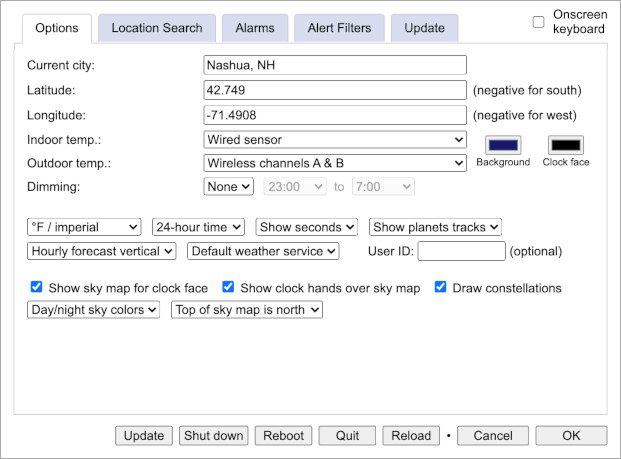
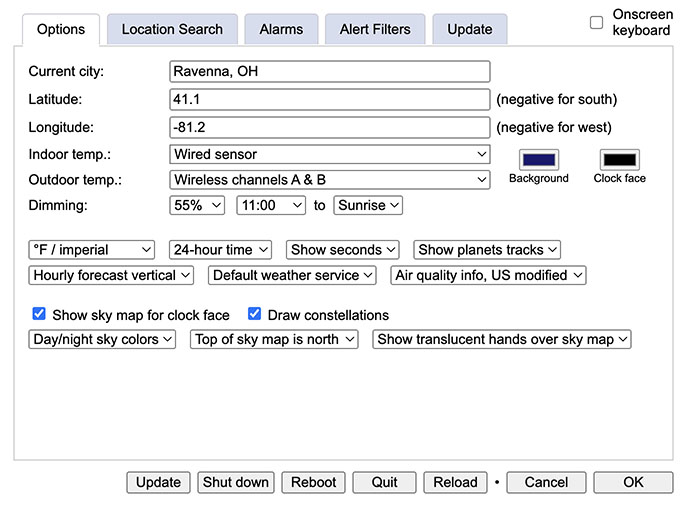
Documentation and image updates.

diff --git a/README.md b/README.md
@@ -1,12 +1,12 @@
 ## Astronomy/Weather Clock
 
-![raspberry pi logo](https://shetline.com/readme/aw-clock/3.3.0/rpi_logo.svg)
+![raspberry pi logo](https://shetline.com/readme/aw-clock/3.8.0/rpi_logo.svg)
 
 This project is designed to create a desktop clock that provides weather and astronomical information while additionally functioning as an alarm clock.
 
 Although primarily designed to run on a Raspberry Pi, the project generates a Node.js server and a client web app which can be run on other computers and operating systems, albeit without the Raspberry Pi’s hardware-level support for wired and wireless temperature/humidity sensors. GPS support is also primarily aimed at the Raspberry Pi, but might work with other Linux variants if similarly configured.
 
-The clock displays the time and date in both analog and digital form, in 12- or 24-hour format, and has a special display mode for the occasional leap second. The clock also displays current weather conditions, hourly conditions for 24 hours, a seven*-day forecast, filterable weather alerts, sunrise and sunset times, moonrise and moonset times*, moon phases, equinoxes, solstices, and the positions of the Sun, Moon, and major planets along the ecliptic.
+The clock displays the time and date in both analog and digital form, in 12- or 24-hour format, and has a special display mode for the occasional leap second. The clock also displays current weather conditions, hourly conditions for 24 hours, a seven*-day forecast, air quality information, filterable weather alerts, sunrise and sunset times, moonrise and moonset times*, moon phases, equinoxes, solstices, and the positions of the Sun, Moon, and major planets along the ecliptic.
 
 When displaying 24-hour time, that time can either be local time or UTC.
 
@@ -18,15 +18,15 @@ When viewing the sky map feature you can choose to see a multicolor sky, shaded 
 
 *&#42;A touchscreen or mouse is required to display the last two or three days of the seven-day forecast, to switch the display from sunrise/sunset to moonrise/moonset, from clock face to sky map, or to switch from hourly temperatures to hourly probability-of-precipitation.*
 
-![finished project](https://shetline.com/readme/aw-clock/3.3.0/aw-clock-w-stand-12.jpg)
+![finished project](https://shetline.com/readme/aw-clock/3.8.0/aw-clock-w-stand-12.jpg)
 
-![app screenshot](https://shetline.com/readme/aw-clock/3.3.0/awc_screenshot.png)
+![app screenshot](https://shetline.com/readme/aw-clock/3.8.0/awc_screenshot.png)
 
-![night sky](https://shetline.com/readme/aw-clock/3.3.0/sky-map-night.jpg)
+![night sky](https://shetline.com/readme/aw-clock/3.8.0/sky-map-night.jpg)
 
-![day sky](https://shetline.com/readme/aw-clock/3.3.0/sky-map-day.jpg)
+![day sky](https://shetline.com/readme/aw-clock/3.8.0/sky-map-day.jpg)
 
-![app dst animation](https://shetline.com/readme/aw-clock/3.3.0/spring-forward-480.gif)
+![app dst animation](https://shetline.com/readme/aw-clock/3.8.0/spring-forward-480.gif)
 
 <br/>
 
@@ -54,7 +54,7 @@ If you want to use the **alarm clock** feature, **it’s important that you use 
 
 If you choose to launch the clock with Firefox, and also want audio alarms to work, you will have to configure Firefox to allow autoplay.
 
-<img src="https://shetline.com/readme/aw-clock/3.3.0/firefox-autoplay.jpg" alt="drawing" width="600"/>
+<img src="https://shetline.com/readme/aw-clock/3.8.0/firefox-autoplay.jpg" alt="drawing" width="600"/>
 
 You can be pickier than this about autoplay privileges, narrowing the autoplay permission to localhost, but this is the easiest way to ensure audio playback.
 
@@ -64,9 +64,9 @@ Respond `Y` to the prompt “Allow user to reboot, shutdown, update, etc.?” if
 
 ### Weather
 
-As of v2.1.0 of this software no API key is required to get weather data. The default weather data, however, is now being acquired by “page scraping” [Weather Underground](https://www.wunderground.com/), not via a guaranteed stable API.
+By default weather data is acquired by “page scraping” [Weather Underground](https://www.wunderground.com/), not via a guaranteed stable API.
 
-Having a back-up weather data source is still, therefore, a good idea. For that there are three options:
+Having a back-up weather data source is not required, but it might be a good idea. For that there are three options:
 
 1. Get an API key for [Weatherbit.io via RapidAPI](https://rapidapi.com/weatherbit/api/weather/). You can get a free key, but with a hard maximum of 125 API calls allowed per day, that will only be good for occasional back-up service, not full-time weather information (it takes multiple API calls to get a full forecast). The US$10/month Pro plan is more than sufficient, however. With a Weatherbit.io API key, you’ll also be able to handle geolocation (turning GPS latitude/longitude into city/place names) without needing to set up a Google API key.
 
@@ -74,15 +74,31 @@ Having a back-up weather data source is still, therefore, a good idea. For that 
 
 3. There’s a limited capability in this software to fall back on using my personal RapidAPI/Weatherbit.io account, but depending on how much traffic I get, there’s no guarantee that this back-up will always be there.
 
-*Note: The Dark Sky weather API has been discontinued. Support for Dark Sky in this application has been removed.*
-
 ### Time keeping
 
-By default, this application uses GPS-synced system time, if available, or uses a default pool of NTP time servers (keeping its own time via NTP, rather than using the system clock). You can configure the use of different time servers, however, you should not choose Google or Facebook time servers, or any other NTP server that implements “leap second smearing”, if you want the Astronomy/Weather Clock to be able to accurately display leap seconds as shown below:
+By default, this application uses GPS-synced system time, if available, or uses a default pool of NTP time servers (keeping its own time via NTP, rather than using the system clock). You can configure the use of different time servers, however, you should not choose Google or Facebook time servers, or any other NTP server that implements “leap second smearing“, if you want the Astronomy/Weather Clock to be able to accurately display leap seconds as shown below:
 
-![Hypothetical leap second](https://shetline.com/readme/aw-clock/3.3.0/moment_of_leap_second.jpg)
+![Hypothetical leap second](https://shetline.com/readme/aw-clock/3.8.0/moment_of_leap_second.jpg)
 
 *This image is hypothetical — the pictured moment in time was not an actual leap second. Video here: <https://shetline.com/video/leap_second_display.mp4>*
+
+Leap seconds have possibly become a moot point. There hasn’t been a new leap second introduced since the tail end of 2016. The need for leap seconds is irregular, but before 2016 they were added about once every year and a half on average, starting in 1972, so it has been a strangely long stretch of time since the last one.
+
+The Earth’s rotation simply has not been running as slowly as it had been, and has even sped up at times over the last several years. It’s currently possible that a previously merely hypothetical “negative leap second“ could happen by as soon as 2029.
+
+If that negative leap second doesn’t happen, however, but the Earth also keeps up it’s unusual speed for a while longer so the need for a normal leap second is delayed beyond the year 2035, then, by international agreement, there will be no more leap seconds at all, at least for the foreseeable future.
+
+### Air Quality Information
+
+The Astronomy/Weather Clock will (unless you disable the feature) display air quality information obtained from [Open-Meteo](https://open-meteo.com/). This data includes both the US and EU air quality indices (AQIs) as well as raw quantitative measurements of various pollutants. A current AQI rating is displayed, and this can be tapped/clicked for greater detail. Additionally, the day label for each day of the weather forecast is color-coded to match the worst AQI rating during a given day.
+
+For the US AQI system, you can use an alternative color coding system that gradually changes shade as the air quality transitions from one level to the next. As can be seen below, the just-on-the-border rating between “Good” and “Moderate” at an AQI of 51, rather than starkly switch from green to yellow, can be shown as greenish yellow instead.
+
+![AQ modes](https://shetline.com/readme/aw-clock/3.8.0/us_aqi_standard_v_mod.jpg)
+
+In the Air Quality Details view the standard colors border each measurement while the gradiated colors are used around each numeric value.
+
+![AQ details](https://shetline.com/readme/aw-clock/3.8.0/air-quality-details.jpg)
 
 ### Web browser client options
 
@@ -90,10 +106,10 @@ As soon as you’ve got the Astronomy/Weather Clock up and running the first tim
 
 Your city might be filled in automatically by using your IP address &mdash; but then again, it might not. If you’re using this clock in a bedroom you might find the **Dimming** options very useful, as they establish a schedule during which the display will be reduced in brightness.
 
-![user settings screenshot - options](https://shetline.com/readme/aw-clock/3.3.0/awc-dlog-options.jpg)
-![user settings screenshot - locations](https://shetline.com/readme/aw-clock/3.3.0/awc-dlog-locations.jpg)
-![user settings screenshot - alarms](https://shetline.com/readme/aw-clock/3.3.0/awc-dlog-alarms.jpg)
-![user settings screenshot - alert-filters](https://shetline.com/readme/aw-clock/3.3.0/awc-dlog-alert-filters.jpg)
+![user settings screenshot - options](https://shetline.com/readme/aw-clock/3.8.0/awc-dlog-options.jpg)
+![user settings screenshot - locations](https://shetline.com/readme/aw-clock/3.8.0/awc-dlog-locations.jpg)
+![user settings screenshot - alarms](https://shetline.com/readme/aw-clock/3.8.0/awc-dlog-alarms.jpg)
+![user settings screenshot - alert-filters](https://shetline.com/readme/aw-clock/3.8.0/awc-dlog-alert-filters.jpg)
 
 Using Chromium, you can close the web browser while it’s running in full-screen kiosk mode by pressing `Alt-F4`, or use the Settings/Quit button if available. To get out of full screen mode, but leave the browser running, press `Alt-F11`.
 
@@ -107,7 +123,7 @@ With your Raspberry Pi shut down and disconnected from power, connect the DHT22/
 
 *&#42;This default was GPIO 4 (physical pin 7) before version 2.4.0, but the Adafruit GPS HAT is pre-wired to use that pin, hence the new default.*
 
-![Picture of wiring to GPS HAT](https://shetline.com/readme/aw-clock/3.3.0/rpi_with_gps_hat.jpg)
+![Picture of wiring to GPS HAT](https://shetline.com/readme/aw-clock/3.8.0/rpi_with_gps_hat.jpg)
 
 Also for the Raspberry Pi you have the option to provide wireless indoor conditions and outdoor weather data using [433 MHz Acu Rite 06002M wireless temperature and humidity sensors](https://www.amazon.com/gp/product/B00T0K8NXC/) paired with a [433 MHz receiver module](https://www.amazon.com/D-FLIFE-Wireless-Transmitter-Receiver-Antenna/dp/B0BZRRBBNK/).
 
@@ -132,6 +148,7 @@ A touchscreen is the most practical way to use the alarm features of this clock,
 * Tap/click on the hourly weather icons, or the hourly temperatures, to see hourly probabilities of precipitation and wind speed. Tap/click again to toggle back to weather icons and temperatures. *After one minute, the display reverts to weather icons and hourly temperatures.*
 * Tap/click on the (sometimes) scrolling banner at the bottom of the screen to see the full text of alert messages without having to wait for all the text to scroll by. In this full text view you can acknowledge alerts and thus remove them from the banner.
 * Tap/click on the gear icon in the lower right corner of the display to bring up the Settings dialog. An onscreen keyboard option is available. If you answered “Yes” to the set-up question “Allow user to reboot, shutdown, update, etc.?”, extra options for managing your Raspberry Pi will be available.
+* Tap/click on the current Air Quality Index to see detailed air quality information.
 
 ### Alarm keyboard control
 
@@ -147,7 +164,7 @@ When you perform the standard dedicated device installation, a folder will be cr
 
 ### Temporarily disabling upcoming alarms
 
-<img src="https://shetline.com/readme/aw-clock/3.3.0/alarm-indicator.jpg" width=105 height=85 alt="alarm indicator">&nbsp;&nbsp;&nbsp;<img src="https://shetline.com/readme/aw-clock/3.3.0/alarm-disabled.jpg" width=105 height=85 alt="alarm indicator">
+<img src="https://shetline.com/readme/aw-clock/3.8.0/alarm-indicator.jpg" width=105 height=85 alt="alarm indicator">&nbsp;&nbsp;&nbsp;<img src="https://shetline.com/readme/aw-clock/3.8.0/alarm-disabled.jpg" width=105 height=85 alt="alarm indicator">
 
 Ever wake up before your alarm goes off, don’t want to worry about the alarm going off when you aren’t around, but you’re also worried that if you turn the alarm off you’ll forget to turn it back on again for when you need it next?
 
@@ -169,7 +186,7 @@ The filter text you enter is case-insensitive. Advanced users can enter *regular
 
 ### Wind speed
 
-<img src="https://shetline.com/readme/aw-clock/3.3.0/wind_barbs.png" width=820 height=55 alt="wind barbs">
+<img src="https://shetline.com/readme/aw-clock/3.8.0/wind_barbs.png" width=820 height=55 alt="wind barbs">
 
 Wind speed is displayed using *wind barbs*. When using imperial units, the wind barbs represent wind speed in knots, rounded to the nearest multiple of 5 knots, up to a maximum of 100 knots. In metric mode the wind barbs, by default, represent wind speed in meters per second, in increments of 2.5 m/s (in the diagram above, divide the captions by 2 for m/s).
 
@@ -204,7 +221,7 @@ If an arc becomes a full circle, that means the corresponding planet on that tra
 
 The 3D model for this stand is provided by the project file `raspberry_pi_setup/monitor_stand.stl`. Below is how that model came out when printed using black ABS, 20% infill, at a cost of about $28 USD.
 
-![3D stand rear view](https://shetline.com/readme/aw-clock/3.3.0/aw-clock-w-stand-01.jpg)
+![3D stand rear view](https://shetline.com/readme/aw-clock/3.8.0/aw-clock-w-stand-01.jpg)
 
 This is my second design of this stand, after making a few improvements from my first design. I made this version shorter, improved wire routing, and added an access hole where (using tweezers) it’s possible to access the SD card slot without disassembling the clock.
 
@@ -214,7 +231,7 @@ This is my second design of this stand, after making a few improvements from my 
 
 #### Front view
 
-![3D stand front view](https://shetline.com/readme/aw-clock/3.3.0/aw-clock-w-stand-02.jpg)
+![3D stand front view](https://shetline.com/readme/aw-clock/3.8.0/aw-clock-w-stand-02.jpg)
 
 <br>
 
@@ -222,7 +239,7 @@ This is my second design of this stand, after making a few improvements from my 
 
 The side panel has a place to attach a quarter-wave 433 MHz antenna, a clip to hold a 433 MHz receiving module, a hole for a female SMA coaxial connector for GPS, and (on the reverse side) a mounting position for a DHT22/AM2302 temperature/humidity sensor.
 
-![3D stand side panel](https://shetline.com/readme/aw-clock/3.3.0/aw-clock-w-stand-03.jpg)
+![3D stand side panel](https://shetline.com/readme/aw-clock/3.8.0/aw-clock-w-stand-03.jpg)
 
 <br>
 
@@ -230,7 +247,7 @@ The side panel has a place to attach a quarter-wave 433 MHz antenna, a clip to h
 
 This is the original stand that came with the 2560x1600 ELECROW 10.1" touchscreen monitor. It’s not a bad stand in general, but, with the Raspberry Pi attached to the back of the monitor, the cables and wires were an awkward fit. The stand had to be skewed off-center quite a bit for it to work at all.
 
-![Original monitor stand](https://shetline.com/readme/aw-clock/3.3.0/aw-clock-w-stand-04.jpg)
+![Original monitor stand](https://shetline.com/readme/aw-clock/3.8.0/aw-clock-w-stand-04.jpg)
 
 <br>
 
@@ -238,13 +255,13 @@ This is the original stand that came with the 2560x1600 ELECROW 10.1" touchscree
 
 The stand is attached using 4 M3 x 10 mm wafer-head machine screws. Please note that M4 is the typical size screw for a VESA mount of this size (75 mm square spacing), so it’s a little unusual M3s were needed instead.
 
-![Stand attached to monitor](https://shetline.com/readme/aw-clock/3.3.0/aw-clock-w-stand-05.jpg)
+![Stand attached to monitor](https://shetline.com/readme/aw-clock/3.8.0/aw-clock-w-stand-05.jpg)
 
 <br>
 
 #### Stand attached to monitor, side view
 
-![Stand attached to monitor, side view](https://shetline.com/readme/aw-clock/3.3.0/aw-clock-w-stand-06.jpg)
+![Stand attached to monitor, side view](https://shetline.com/readme/aw-clock/3.8.0/aw-clock-w-stand-06.jpg)
 
 <br>
 
@@ -254,8 +271,8 @@ The long arm that reaches out from the side panel is designed so the temperature
 
 A small piece of non-conductive foam wedged behind the RF module helps keep the module in place.
 
-![Side panel with components attached](https://shetline.com/readme/aw-clock/3.3.0/aw-clock-w-stand-07.jpg)<br>
-![Side panel with components attached, temp/humidity sensor](https://shetline.com/readme/aw-clock/3.3.0/aw-clock-w-stand-07b.jpg)
+![Side panel with components attached](https://shetline.com/readme/aw-clock/3.8.0/aw-clock-w-stand-07.jpg)<br>
+![Side panel with components attached, temp/humidity sensor](https://shetline.com/readme/aw-clock/3.8.0/aw-clock-w-stand-07b.jpg)
 
 <br>
 
@@ -263,13 +280,13 @@ A small piece of non-conductive foam wedged behind the RF module helps keep the 
 
 I was a bit uncertain how well machine screws would work with the stand-offs that I’d designed, since I wanted them to function like self-tapping screws. As it turned out, the four M2.5 x 6 mm pan-head machine screws fit quite nicely and snugly, without being difficult to turn. If the Pi were to be repeatedly removed and reattached, however, this design might not be durable enough. For my current purposes, it’s just fine.
 
-![Raspberry Pi Model 4 attached to stand-offs](https://shetline.com/readme/aw-clock/3.3.0/aw-clock-w-stand-08.jpg)
+![Raspberry Pi Model 4 attached to stand-offs](https://shetline.com/readme/aw-clock/3.8.0/aw-clock-w-stand-08.jpg)
 
 <br>
 
 #### GPS HAT added, and components wired together
 
-![GPS HAT added, and components wired together](https://shetline.com/readme/aw-clock/3.3.0/aw-clock-w-stand-09.jpg)
+![GPS HAT added, and components wired together](https://shetline.com/readme/aw-clock/3.8.0/aw-clock-w-stand-09.jpg)
 
 <br>
 
@@ -283,13 +300,13 @@ The odd reddish-brown object at the end of the USB cable is an adapter that bloc
 
 While this would actually be a good thing if it meant I could hook up the clock with only one power cable, not two, the power from the monitor only keeps the Raspberry Pi running *after* the Pi has been separately powered up using its own power supply. The result is no simplification of the power connections, but merely making it harder to shut the clock down without adding this power isolating adapter.
 
-![Monitor connections for HDMI video and USB touchscreen](https://shetline.com/readme/aw-clock/3.3.0/aw-clock-w-stand-10.jpg)
+![Monitor connections for HDMI video and USB touchscreen](https://shetline.com/readme/aw-clock/3.8.0/aw-clock-w-stand-10.jpg)
 
 <br>
 
 #### Rearview of completed clock project
 
-![finished project](https://shetline.com/readme/aw-clock/3.3.0/aw-clock-w-stand-11.jpg)
+![finished project](https://shetline.com/readme/aw-clock/3.8.0/aw-clock-w-stand-11.jpg)
 
 <br>
 
@@ -403,7 +420,7 @@ For reference, here’s a breakdown of the steps performed by a full installatio
 
 When using a small but high resolution display like the 2560x1600 ELECROW 10.1" monitor I chose to use, which is nearly 300 ppi (~120 pixels per cm) you’ll typically want to apply a scaling/zooming factor to the display, otherwise text and other details will be impractically small to see. With earlier releases of Raspbian this kind of scaling would be done using the pixel doubling option below:
 
-![pixel doubling](https://shetline.com/readme/aw-clock/3.3.0/config-pixel-dbl.jpg)
+![pixel doubling](https://shetline.com/readme/aw-clock/3.8.0/config-pixel-dbl.jpg)
 
 With later versions of Raspbian all you need to do is set a lower display resolution than the native resolution of your display to get sharp but smooth text instead of very tiny text.
 
@@ -461,7 +478,7 @@ USBAUTO="false"
 START_DAEMON="true"
 ```
 
-As of the time I'm writing this documentation, the most critical advice currently missing from the Adafruit tutorial is the need to **use `ttyAMA0` for the Raspberry Pi 5**.
+As of the time I’m writing this documentation, the most critical advice currently missing from the Adafruit tutorial is the need to **use `ttyAMA0` for the Raspberry Pi 5**.
 
 ### Developer notes
 
